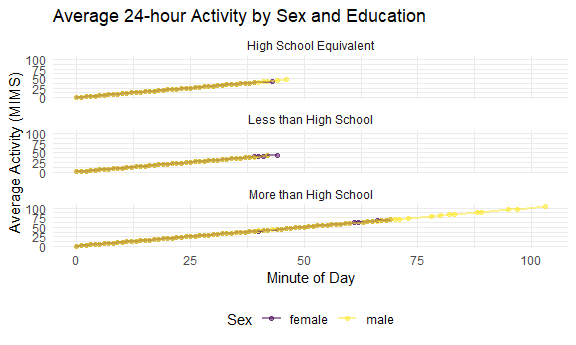
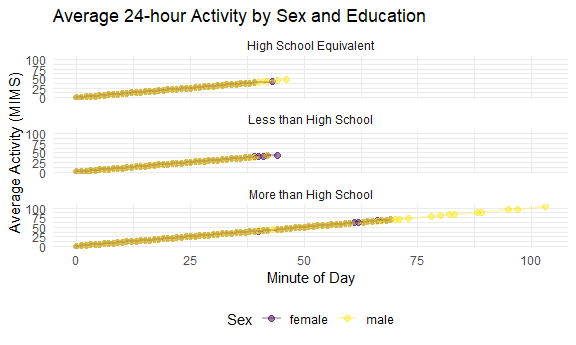
finished product

diff --git a/p8105_hw3_csl2209.md b/p8105_hw3_csl2209.md
@@ -541,7 +541,7 @@ accel_combined |>
   group_by(education, sex, minute) |>
   summarize(mean_mims = mean(MIMS)) |>
   ggplot(aes(x = minute, y = mean_mims, color = sex)) +
-  geom_point(alpha = 0.5) + geom_line(size = 1, alpha = 0.5) +
+  geom_point(alpha = .5, size = 2) + geom_line(size = 1, alpha = 0.3) +
   facet_wrap(~education, ncol = 1) +
   labs(
     title = "Average 24-hour Activity by Sex and Education",
@@ -561,3 +561,11 @@ accel_combined |>
     ## generated.
 
 <img src="p8105_hw3_csl2209_files/figure-gfm/unnamed-chunk-12-1.png" width="90%" />
+
+We see for all age groups that the total average activity increases
+throughout the duration of the day. The ‘more than high school’ group
+reaches the highest level of activity, while the ‘high school
+equivalent’ and the ‘less than high school’ are slightly lower. The
+‘high school equivalent’ and the ‘less than high school’ are quite
+similar to one another. There does not appear to be much of a difference
+between gender groups.
